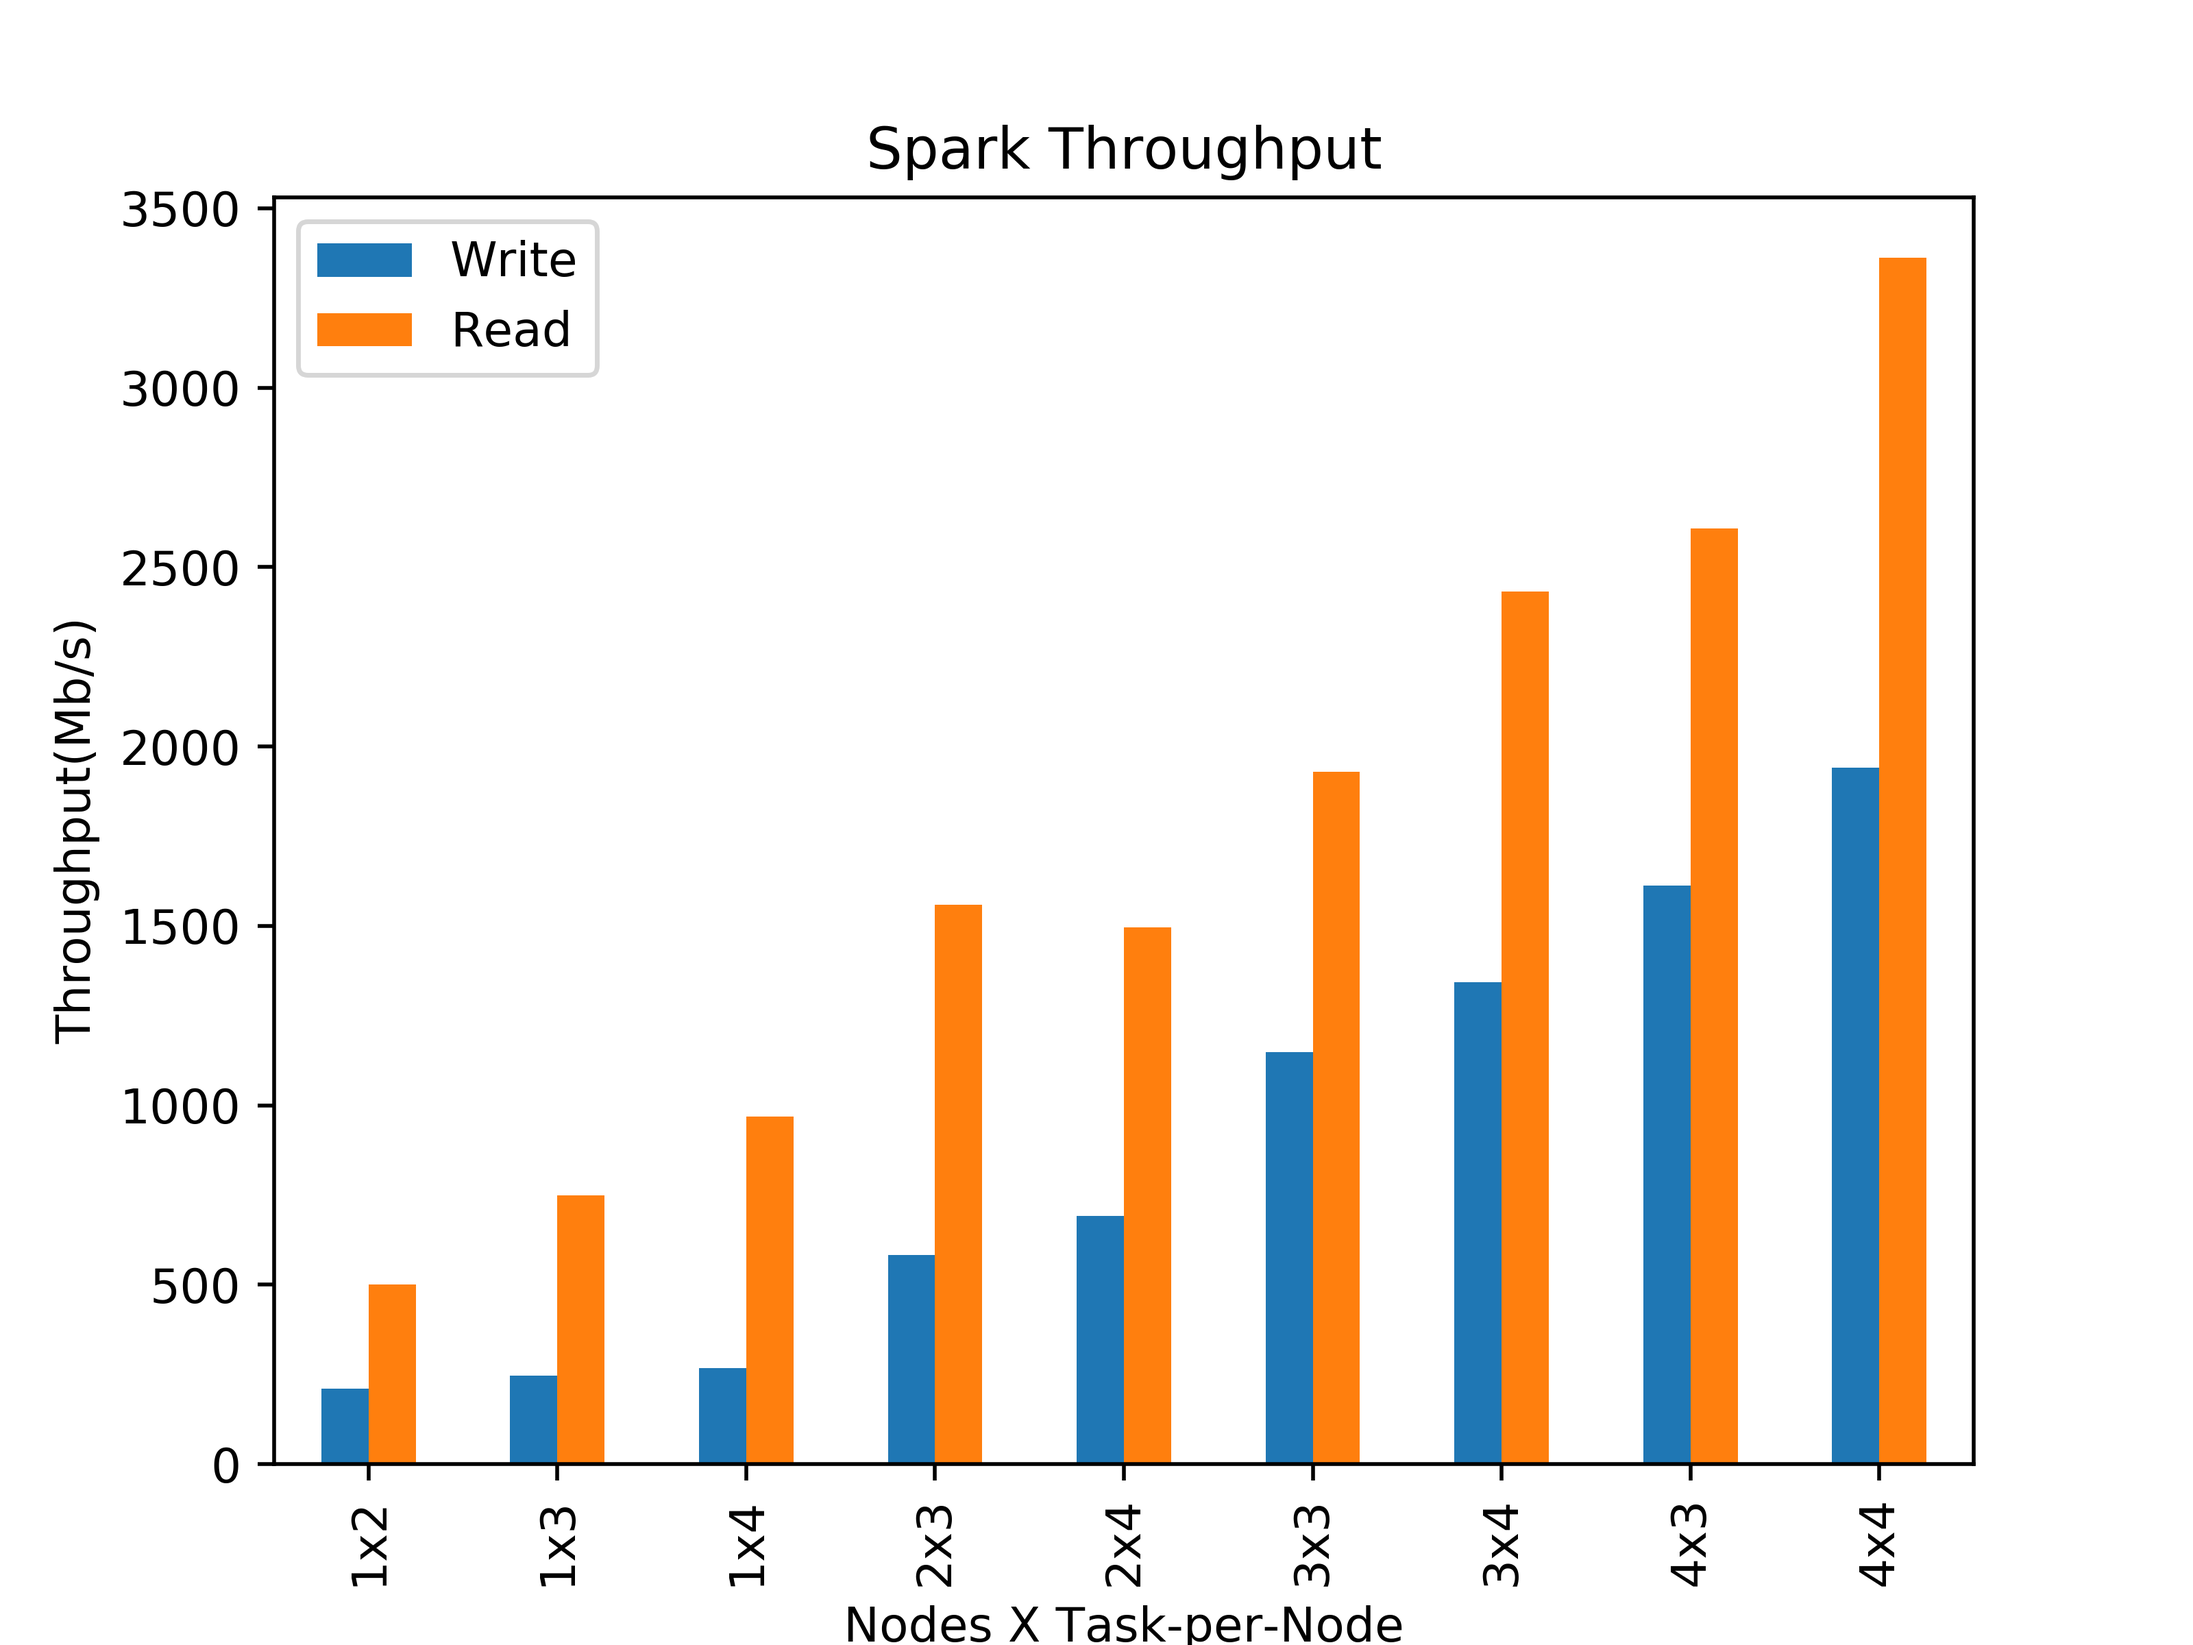
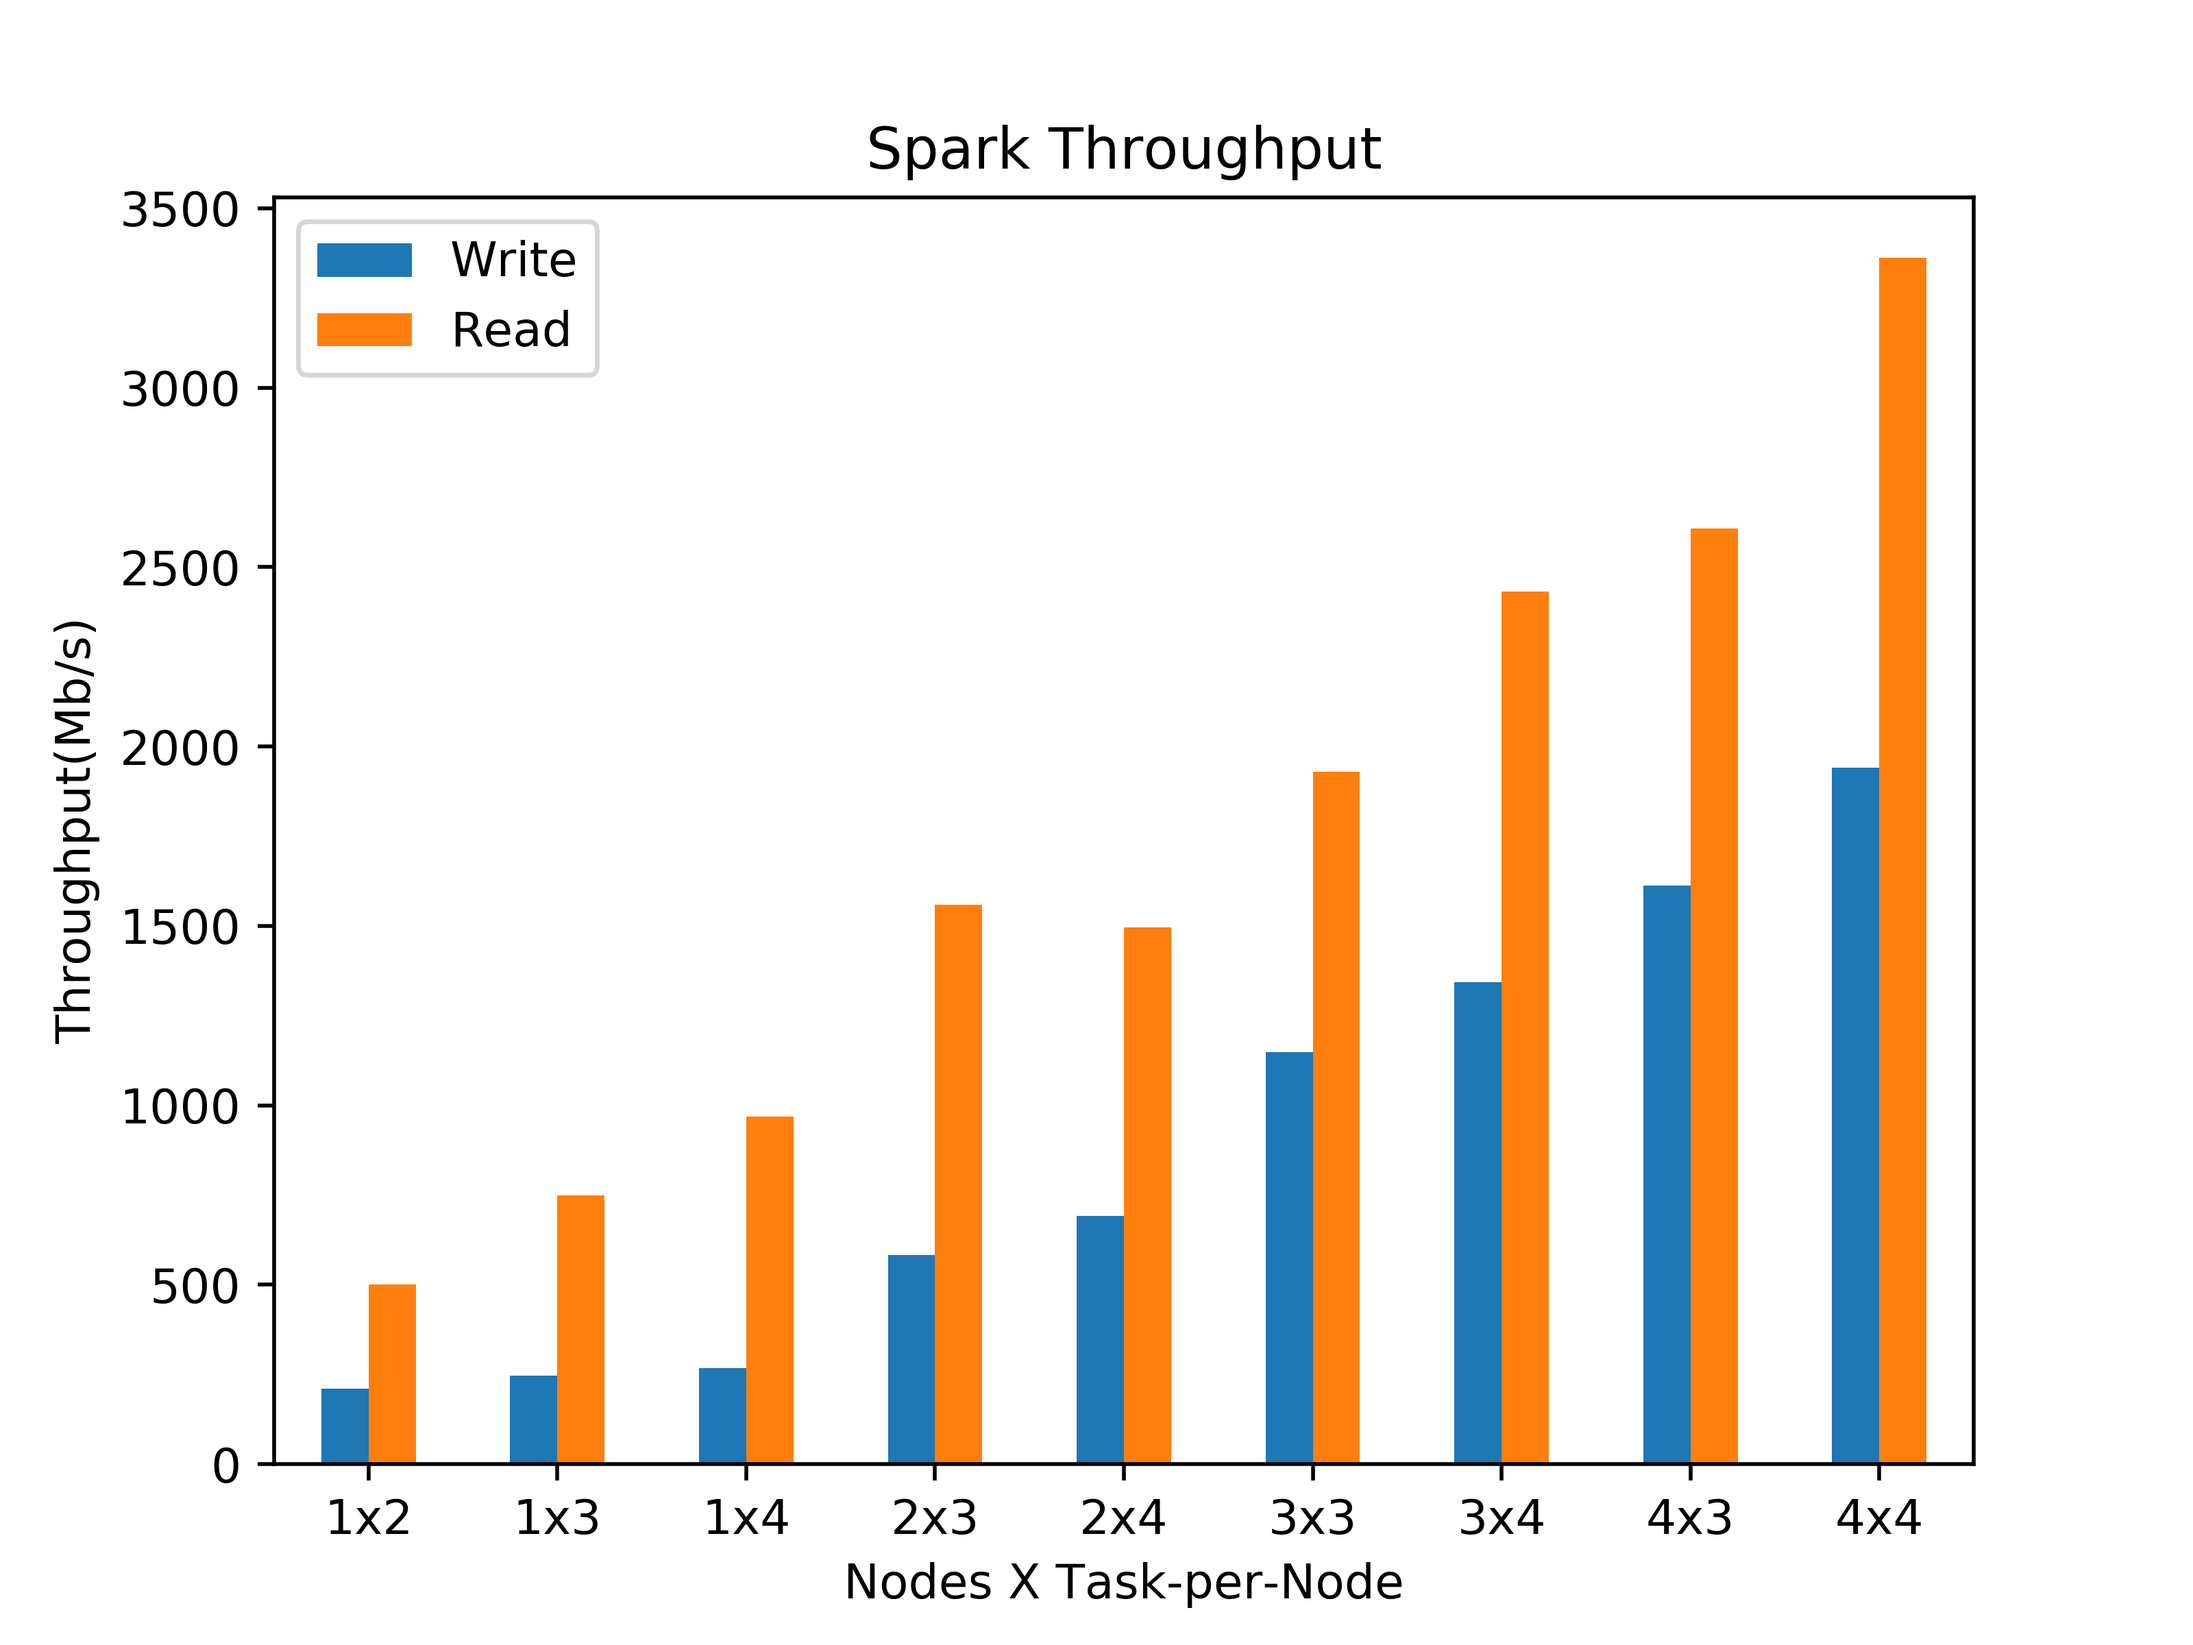
Plot and script updates

diff --git a/Spark-Terasort/time-extractor.py b/Spark-Terasort/time-extractor.py
@@ -62,7 +62,7 @@ def data_plot():
         x.append(average[1][i])
         y.append(average[2][i])
     plt.plot(x, y, '-')
-    plt.xticks(x)
+    plt.xticks(x, rotation='horizontal')
     plt.title("TeraSort Computation Times")
     plt.xlabel("Nodes x Task-per-Node")
     plt.ylabel("Elapsed Time(s)")
@@ -86,12 +86,14 @@ def io_rate_plot():
         x2.append("%.2f" %(average[2][i]/average[3][i]))
     average.plot(y=[2, 3], kind='bar', label=["Write", "Read"])
     plt.title("Spark I/O Rate")
-    plt.xticks(average.index, x2)
-    plt.show()
+    plt.xticks(average.index, x2, rotation='horizontal')
+    plt.xlabel("Write Time/Read Time")
+    plt.ylabel("Elapsed Time(s)")
     dir = "./plots"
     plot_name = "spark-io-rates.png"
     filepath = os.path.join(dir, plot_name)
     plt.savefig(filepath, dpi=500)
+    plt.show()
     plt.clf()
 
 
@@ -109,7 +111,7 @@ def thourghput():
     plt.xlabel("Nodes X Task-per-Node")
     plt.ylabel("Throughput(Mb/s)")
     plt.title("Spark Throughput")
-    plt.xticks(average.index, x)
+    plt.xticks(average.index, x, rotation='horizontal')
     dir = "./plots"
     plot_name = "spark-throughput.png"
     filepath = os.path.join(dir, plot_name)
@@ -123,18 +125,23 @@ def statistics():
     desc = df[2].groupby(df[1]).describe()
     fig, ax = plt.subplots(figsize=(10, 8))
     plt.suptitle('')
-    data.boxplot(column=['SepalLength'], by='Name', ax=ax)
-    bp = df.boxplot(column=2, by=1, ax=ax)
+    df.rename(columns={2: 'Time'}, inplace=True)
+    bp = df.boxplot(column=['Time'], by=[1], ax=ax)
     ax.set_xlabel('Nodes X Task-per-Node')
+    ax.set_ylabel('Elapsed Time(s)')
     fig = np.asarray(bp).reshape(-1)[0].get_figure()
     fig.suptitle('Boxplot for Runtimes')
+    dir = "./plots"
+    plot_name = "spark-boxplot.png"
+    filepath = os.path.join(dir, plot_name)
+    plt.savefig(filepath, dpi=500)
     plt.show()
-
+    plt.clf()
 
 
 if __name__ == '__main__':
-    data_generate()
-    data_plot()
+    # data_generate()
+    # data_plot()
     statistics()
-    io_rate_plot()
-    thourghput()
+    # io_rate_plot()
+    # thourghput()
